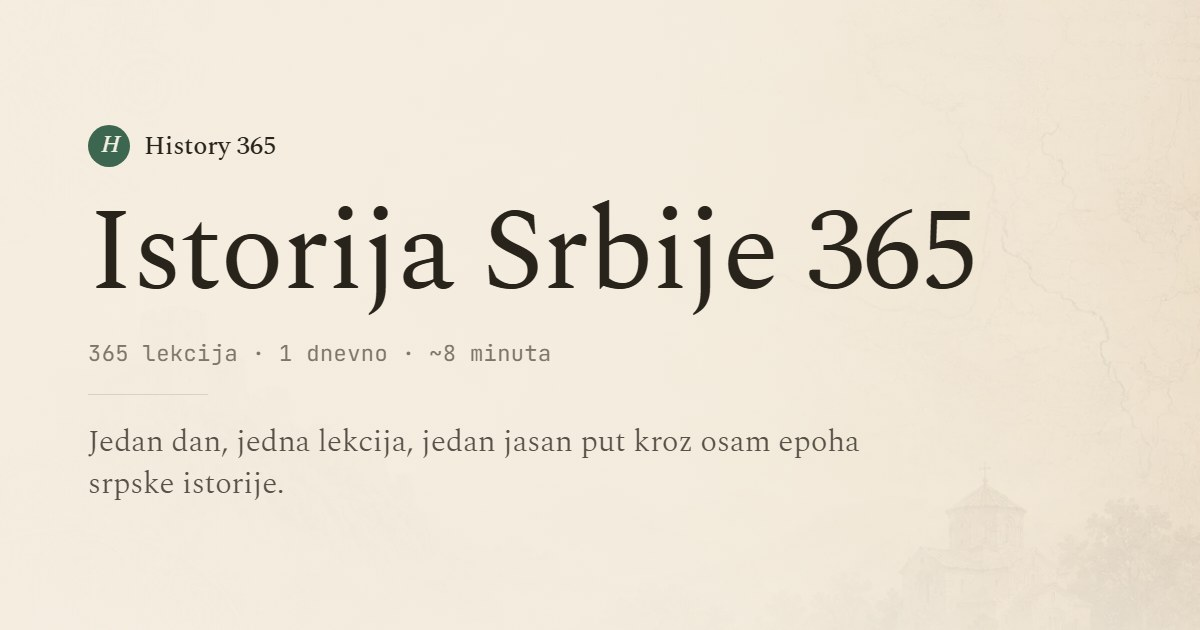
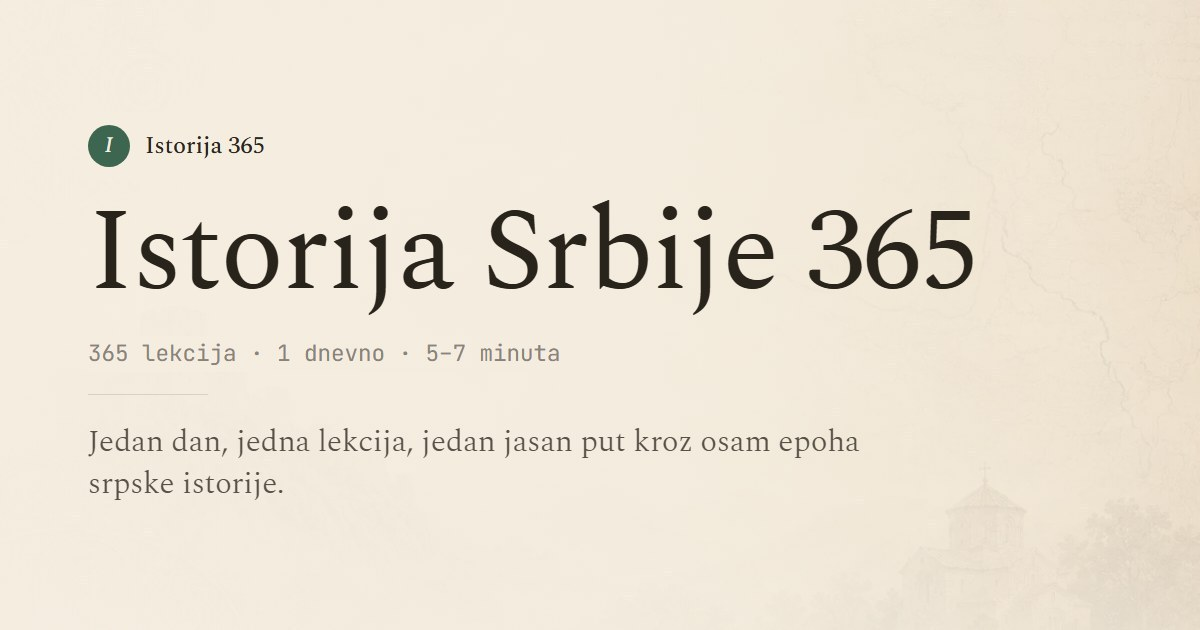
Istorija 365: brand rename, honest About voice, complete privacy page
- Brand "History 365" becomes "Istorija 365": masthead Brand (monogram I),
  footer, SITE_NAME / SITE_TITLE / tab template, OG card, favicon glyph.
- About speaks impersonally (one person + AI, no "we"); new lede that does
  not repeat the Home hero line.
- Privacy (review item 16): legal basis, US processors and transfers,
  everything the schema keeps (timestamps), backups at most 14 days,
  the right to complain to the Poverenik; /prijava line matches.
- e2e: brand surface test, privacy completeness test, About voice guards.

Changed region(s): [[0.1233, 0.5429, 0.4625, 0.573], [0.0617, 0.2111, 0.2467, 0.2714], [0.0617, 0.5429, 0.0925, 0.573]]

diff --git a/apps/web/app/privatnost/_copy.ts b/apps/web/app/privatnost/_copy.ts
@@ -1,16 +1,27 @@
 /**
  * Privacy page copy. Plain Serbian, no legal register: what is kept, why,
- * where, for how long, and how to delete it. Linked from the footer, the
- * sign-in page and the Google consent screen. Keep it true — every claim
- * here matches the schema in `lib/server/db/schema.ts`, the cookies set
- * by `lib/server/auth/*` and the one foreign script the CSP in
- * `next.config.mjs` allows (Cloudflare Web Analytics).
+ * on what legal basis, where, for how long, and how to delete it. Linked
+ * from the footer, the sign-in page and the Google consent screen. Keep it
+ * true — every claim here matches:
+ *
+ * - the schema in `lib/server/db/schema.ts` (users: Google `sub`, email,
+ *   name, picture URL, `created_at`, `last_seen_at`; sessions: token hash,
+ *   created / expires; progress with `completed_at` per lesson and the last
+ *   opened lesson; bookmarks with `created_at`),
+ * - the scopes in `lib/server/auth/google.ts` (`openid email profile`),
+ * - the cookies set by `lib/server/auth/*`,
+ * - the one foreign script the CSP in `next.config.mjs` allows (Cloudflare
+ *   Web Analytics),
+ * - the backup retention in `deploy/backup.sh` (at most 14 days).
+ *
+ * The voice is impersonal on purpose: one person runs the site (see
+ * /o-aplikaciji), so there is no "we".
  */
 export const PRIVACY_EYEBROW = 'Privatnost';
-export const PRIVACY_TITLE = 'Šta čuvamo, i zašto';
+export const PRIVACY_TITLE = 'Šta se čuva, i zašto';
 export const PRIVACY_LEDE =
-  'History 365 radi i bez naloga. Nalog postoji samo da bi se napredak preneo na druge uređaje. Ovde je, bez sitnih slova, sve što se tada čuva.';
-export const PRIVACY_UPDATED = 'Poslednja izmena: 29. septembar 2026.';
+  'Istorija 365 radi i bez naloga. Nalog postoji samo da bi se napredak preneo na druge uređaje. Ovde je, bez sitnih slova, sve što se tada čuva.';
+export const PRIVACY_UPDATED = 'Poslednja izmena: 30. septembar 2026.';
 
 export interface PrivacySection {
   readonly id: string;
@@ -23,7 +34,7 @@ export const PRIVACY_SECTIONS: readonly PrivacySection[] = [
     id: 'ko-vodi',
     heading: 'Ko vodi sajt',
     paragraphs: [
-      'History 365 vodi privatno lice, ne firma. To lice je rukovalac podataka opisanih na ovoj strani i odgovara na svako pitanje o njima preko adrese na dnu strane.',
+      'Sajt Istorija 365 vodi privatno lice, ne firma. To lice je rukovalac podataka opisanih na ovoj strani i odgovara na svako pitanje o njima preko adrese na dnu strane.',
     ],
   },
   {
@@ -37,41 +48,61 @@ export const PRIVACY_SECTIONS: readonly PrivacySection[] = [
     id: 'statistika',
     heading: 'Statistika poseta',
     paragraphs: [
-      'Brojimo posete da bismo znali koliko se sajt čita i koliko se brzo učitava. Za to koristimo Cloudflare Web Analytics, koji radi bez kolačića i ne prati te po drugim sajtovima.',
-      'Beleži se koja je strana otvorena i sa koje se došlo, vrsta pregledača i sistema, država i vreme učitavanja. Ti podaci se ne povezuju sa tvojim nalogom ni sa napretkom, i ne koristimo ih za reklame.',
+      'Posete se broje da bi se znalo koliko se sajt čita i koliko se brzo učitava. Za to služi Cloudflare Web Analytics, koji radi bez kolačića i ne prati te po drugim sajtovima.',
+      'Beleži se koja je strana otvorena i sa koje se došlo, vrsta pregledača i sistema, država i vreme učitavanja. Ti podaci se ne povezuju sa tvojim nalogom ni sa napretkom i ne koriste se za reklame.',
     ],
   },
   {
     id: 'sa-nalogom',
     heading: 'Sa Google nalogom',
     paragraphs: [
-      'Kad se prijaviš, od Google-a dobijamo i čuvamo četiri stvari: stalni identifikator tvog naloga, e-adresu, ime i sliku profila. Ništa više: ne čitamo poštu, kontakte ni kalendar, i ne čuvamo pristupne ključeve ka Google-u.',
-      'Uz to čuvamo tvoj napredak: koje su lekcije pročitane, koja je poslednja otvorena i koje su sačuvane, sa vremenom poslednje promene.',
+      'Pri prijavi se od Google-a traže samo osnovni podaci profila, a čuvaju se ovi: stalni identifikator tvog Google naloga, e-adresa, ime i adresa slike profila. Ništa više: pošta, kontakti i kalendar ostaju nedostupni, a pristupni ključevi ka Google-u se ne čuvaju.',
+      'Uz nalog se beleže vreme kada je napravljen i vreme poslednje prijave. Za svaku prijavu čuva se i zapis o sesiji: otisak kolačića (ne sam kolačić), sa vremenom nastanka i isteka.',
+      'Uz to se čuva napredak: koje su lekcije pročitane i kada je svaka označena, koja je lekcija poslednja otvorena i koje su lekcije sačuvane i kada.',
       'Spisak naloga vidi samo osoba koja vodi sajt.',
+    ],
+  },
+  {
+    id: 'pravni-osnov',
+    heading: 'Na osnovu čega',
+    paragraphs: [
+      'Nalog je dobrovoljan. Podaci naloga i napretka obrađuju se na osnovu tvog pristanka, koji daješ prijavom i povlačiš brisanjem naloga.',
+      'Statistika poseta i isporuka sajta oslanjaju se na legitimni interes: da se zna koliko se sajt čita i da radi pouzdano i bezbedno. Cloudflare, preko čije mreže ide sav saobraćaj, pri tome obrađuje i IP adresu, da bi isporučio stranu i zaštitio sajt od napada. U bazi sajta IP adrese se ne čuvaju.',
     ],
   },
   {
     id: 'kolacici',
     heading: 'Kolačići',
     paragraphs: [
-      'Jedan kolačić, __Host-l365_session, drži te prijavljenim trideset dana i produžava se dok koristiš aplikaciju. Tokom same prijave postoji i privremeni kolačić od deset minuta koji štiti od lažiranja zahteva. Nema kolačića trećih strana.',
+      'Jedan kolačić, __Host-l365_session, čuva prijavu trideset dana i produžava se dok koristiš aplikaciju. Tokom same prijave postoji i privremeni kolačić od deset minuta koji štiti od lažiranja zahteva. Nema kolačića trećih strana.',
     ],
   },
   {
     id: 'gde',
     heading: 'Gde i koliko dugo',
     paragraphs: [
-      'Podaci su na serveru u Helsinkiju, u Evropskoj uniji (Hetzner). Saobraćaj do servera ide preko Cloudflare-a, a prijava preko Google-a. Čuvaju se dok postoji nalog. Statistiku poseta obrađuje i čuva Cloudflare. Rezervne kopije prave se noću i čuvaju četrnaest dana.',
+      'Podaci naloga su na serveru u Helsinkiju, u Evropskoj uniji (Hetzner), i čuvaju se dok postoji nalog. Saobraćaj do servera ide preko Cloudflare-a, a prijava preko Google-a. Statistiku poseta obrađuje i čuva Cloudflare.',
+      'Google i Cloudflare su američke kompanije, pa se podaci koji prolaze kroz njihove sisteme mogu obrađivati i van Srbije i Evropske unije, uz standardne ugovorne klauzule kojima se te kompanije obavezuju na zaštitu podataka.',
+      'Rezervne kopije baze prave se svake noći i čuvaju najviše 14 dana.',
     ],
   },
   {
     id: 'brisanje',
     heading: 'Brisanje',
     paragraphs: [
-      'Na strani Nalog postoji dugme Obriši nalog. Briše nalog, napredak i sačuvane lekcije odmah i trajno; iz rezervnih kopija nestaju najkasnije za četrnaest dana. Odjava briše napredak samo iz tog pregledača; nalog ostaje. Isto se dešava kad prijava istekne: pročitane i sačuvane lekcije nestaju iz tog pregledača, a ostaju na nalogu i vraćaju se pri sledećoj prijavi.',
+      'Na strani Nalog postoji dugme Obriši nalog. Briše nalog, napredak i sačuvane lekcije odmah i trajno; iz rezervnih kopija nestaju najkasnije za 14 dana. Odjava briše napredak samo iz tog pregledača; nalog ostaje. Isto se dešava kad prijava istekne: pročitane i sačuvane lekcije nestaju iz tog pregledača, a ostaju na nalogu i vraćaju se pri sledećoj prijavi.',
+    ],
+  },
+  {
+    id: 'prava',
+    heading: 'Tvoja prava',
+    paragraphs: [
+      'Možeš da tražiš uvid u podatke koji se o tebi čuvaju, njihovu ispravku ili brisanje, i da pristanak povučeš u svakom trenutku — brisanjem naloga ili porukom na adresu ispod.',
+      'Ako smatraš da se tvoji podaci ne obrađuju u skladu sa zakonom, možeš da podneseš pritužbu Povereniku za informacije od javnog značaja i zaštitu podataka o ličnosti (poverenik.rs).',
     ],
   },
 ];
 
 export const PRIVACY_CONTACT_HEADING = 'Kontakt';
-export const PRIVACY_CONTACT_BODY = 'Za pitanja o podacima, ili ako želiš da nešto proverimo ili obrišemo umesto tebe:';
+export const PRIVACY_CONTACT_BODY =
+  'Za pitanja o podacima, ili ako želiš da se nešto proveri ili obriše umesto tebe:';

diff --git a/apps/web/app/o-aplikaciji/_copy.ts b/apps/web/app/o-aplikaciji/_copy.ts
@@ -2,6 +2,11 @@
  * Editorial copy for the /o-aplikaciji page. Kept here as plain string
  * constants so the owner can iterate copy without touching JSX.
  *
+ * Voice: one person runs the site and the lesson texts were prepared with
+ * an AI model, so the page never speaks as "we". It speaks impersonally
+ * about the project ("Istorija 365 …", passive where natural) and says "ti"
+ * to the reader. The lede must not repeat the Home hero line.
+ *
  * CONTACT_EMAIL is a Cloudflare Email Routing alias on the production
  * domain that forwards to the owner's inbox (DEPLOY.md §11). It is also the
  * data-rights contact on /privatnost.
@@ -14,23 +19,23 @@ export const CONTACT_EMAIL = 'kontakt@istorija365.com';
 export const PAGE_EYEBROW = 'O aplikaciji';
 export const PAGE_TITLE = 'Tihi vodič kroz istoriju Srbije';
 export const PAGE_LEDE =
-  'History 365 je dnevni kurs koji srpsku istoriju predstavlja kao kontinuiranu priču — jedan dan, jedna lekcija, jedan jasan put kroz osam epoha.';
+  'Istorija 365 je dnevni kurs koji istoriju Srbije prikazuje kao jednu povezanu priču: po jedna kratka lekcija za svaki dan, hronološkim redom kroz osam epoha, od praistorije do danas.';
 
 export const MISSION_HEADING = 'Misija';
 export const MISSION_BODY =
-  `Cilj nam je da istoriju Srbije izvedemo iz udžbenika i hronologija i predstavimo je kao povezanu, čitljivu priču dostupnu svakome ko želi da je razume. Verujemo da je dovoljno ${READING_TIME_LABEL} dnevno tokom godinu dana da se izgradi solidna, hronološki uredna slika — od najstarijih kultura na Balkanu do savremenog doba. Kurs je namerno spor: ne nudi enciklopedijsku iscrpnost, već stabilan ritam koji se može održati.`;
+  `Namera kursa je da istoriju Srbije izvede iz udžbenika i hronologija i ponudi je kao povezanu, čitljivu priču, dostupnu svakome ko želi da je razume. Polazna pretpostavka je jednostavna: ${READING_TIME_LABEL} dnevno tokom jedne godine dovoljno je za solidnu, hronološki urednu sliku — od najstarijih kultura na Balkanu do savremenog doba. Kurs je namerno spor: ne nudi enciklopedijsku iscrpnost, već stabilan ritam koji se može održati.`;
 
 export const STANDARD_HEADING = 'Urednički standard';
 export const STANDARD_BODY =
-  'Svaka lekcija je kratka, ali ne i površna. Pišemo za obrazovanog čitaoca koji nije istoričar — jezik je precizan, ton miran, a datume i imena proveravamo i ispravljamo lekciju po lekciju. Izbegavamo nacionalnu mitologizaciju i lake sudove o ličnostima i događajima; tamo gde istoriografija nije saglasna, to jasno naznačavamo. Cilj je da, kada lekciju završiš, znaš šta se desilo, zašto je važno, i šta o tome (ne) možemo pouzdano da tvrdimo.';
+  'Svaka lekcija je kratka, ali ne i površna. Pisana je za obrazovanu publiku koja se istorijom ne bavi profesionalno: jezik je precizan, ton miran, a datumi i imena proveravaju se i ispravljaju lekciju po lekciju. Tekstovi izbegavaju nacionalnu mitologizaciju i lake sudove o ličnostima i događajima; tamo gde istoriografija nije saglasna, to je jasno naznačeno. Cilj je da, kada završiš lekciju, znaš šta se desilo, zašto je važno i šta se o tome (ne) može pouzdano tvrditi.';
 
 export const SOURCES_HEADING = 'O izvorima';
 export const SOURCES_BODY =
-  'Lekcije se oslanjaju na uglednu domaću i međunarodnu istoriografiju — akademske preglede, monografije pojedinih perioda, i, kada je relevantno, primarne izvore u prevodu. Lekcije koje na kraju imaju blok „Izvori” navode dela na koja se tekst neposredno oslanja. Za ostale lekcije spisak literature po epohama je u pripremi. Ako primetiš grešku, javi je na adresu ispod — ispravke ulaze odmah, lekciju po lekciju.';
+  'Lekcije se oslanjaju na uglednu domaću i međunarodnu istoriografiju — akademske preglede, monografije pojedinih perioda i, kada je relevantno, primarne izvore u prevodu. Lekcije koje na kraju imaju blok „Izvori” navode dela na koja se tekst neposredno oslanja. Za ostale lekcije spisak literature po epohama je u pripremi. Ako primetiš grešku, javi je na adresu ispod — svaka prijava se proverava, a ispravka ulazi u lekciju čim se potvrdi.';
 
 export const EDITOR_HEADING = 'Ko stoji iza kursa';
 export const EDITOR_BODY =
-  'History 365 vodi jedna osoba, ne redakcija. Tekstove lekcija pripremio je AI model na osnovu domaće i međunarodne istoriografije, a autor sajta ih uređuje, proverava i ispravlja — lekciju po lekciju, sporim tempom koji i sam kurs preporučuje. Svih 365 lekcija je dostupno od prvog dana; to znači da su neke prošle više provera od drugih, i zato svaka greška koju prijaviš zaista pomaže.';
+  'Istorija 365 je projekat jedne osobe, ne redakcije. Tekstove lekcija pripremio je AI model na osnovu domaće i međunarodne istoriografije, a autor sajta ih uređuje, proverava i ispravlja — lekciju po lekciju, sporim tempom koji preporučuje i sam kurs. Svih 365 lekcija dostupno je od prvog dana, pa su neke prošle više provera od drugih; zato svaka greška koju prijaviš zaista pomaže.';
 
 export const CONTACT_HEADING = 'Kontakt';
 export const CONTACT_BODY =

diff --git a/apps/web/e2e/first-impression.spec.ts b/apps/web/e2e/first-impression.spec.ts
@@ -16,7 +16,7 @@ const STARTED_SEED = JSON.stringify({
   version: 1,
 });
 
-test.describe('History 365 — first impression', () => {
+test.describe('Istorija 365 — first impression', () => {
   test('home explains the ritual to a first-time visitor, then retires the block', async ({
     page,
   }) => {
@@ -47,7 +47,7 @@ test.describe('History 365 — first impression', () => {
     );
     await expect(page.locator('meta[property="og:title"]')).toHaveAttribute(
       'content',
-      /Istorija Srbije 365/,
+      /^Istorija 365 — Istorija Srbije/,
     );
     await expect(page.locator('meta[name="twitter:card"]')).toHaveAttribute(
       'content',
@@ -75,10 +75,33 @@ test.describe('History 365 — first impression', () => {
     await expect(page.getByText(/u fazi izgradnje kursa/)).toHaveCount(0);
     await expect(page.getByText(/Premium/)).toHaveCount(0);
     // No invented editorial team, and a contact address on the production domain.
-    await expect(page.getByText(/Tim History 365/)).toHaveCount(0);
+    await expect(page.getByText(/Tim (History|Istorija) 365/)).toHaveCount(0);
     await expect(page.getByRole('link', { name: 'kontakt@istorija365.com' })).toHaveAttribute(
       'href',
       'mailto:kontakt@istorija365.com',
     );
+    // One person runs the site: the page does not speak as "we", and its
+    // lede is its own, not the Home hero line.
+    const main = page.getByRole('main');
+    await expect(main.getByText(/Pišemo|proveravamo|Cilj nam je|Izbegavamo|naznačavamo/)).toHaveCount(0);
+    await expect(main.getByText(/jedan jasan put/)).toHaveCount(0);
+    await expect(main.getByText(/projekat jedne osobe/)).toBeVisible();
+    await expect(main.getByText(/AI model/)).toBeVisible();
+  });
+
+  test('the brand is Istorija 365 on every surface', async ({ page }) => {
+    await page.goto('/');
+    await expect(page).toHaveTitle(/^Istorija 365 — /);
+    await expect(page.getByRole('banner').getByRole('link', { name: /Istorija 365/ })).toBeVisible();
+    await expect(page.getByRole('contentinfo').getByText('© 2026 Istorija 365')).toBeVisible();
+    await expect(page.locator('meta[property="og:site_name"]')).toHaveAttribute(
+      'content',
+      'Istorija 365',
+    );
+    await expect(page.getByText(/History 365/)).toHaveCount(0);
+
+    await page.goto(`/course/${COURSE_ID}/lesson/day-001`);
+    await expect(page).toHaveTitle(/^Dan 1: .+ · Istorija 365$/);
+    await expect(page.getByText(/History 365/)).toHaveCount(0);
   });
 });

diff --git a/apps/web/e2e/privacy.spec.ts b/apps/web/e2e/privacy.spec.ts
@@ -7,7 +7,7 @@ import { expect, test } from '@playwright/test';
  */
 const STATISTICS_ORIGIN = 'https://static.cloudflareinsights.com';
 
-test.describe('History 365 — privacy and what the page may load', () => {
+test.describe('Istorija 365 — privacy and what the page may load', () => {
   test('the policy allows the visit-statistics script and no other foreign script', async ({
     request,
   }) => {
@@ -37,5 +37,26 @@ test.describe('History 365 — privacy and what the page may load', () => {
     // The sentence that was true before statistics were allowed is gone.
     await expect(page.getByText(/Nemamo analitiku/)).toHaveCount(0);
     await expect(page.getByText(/ništa ne napušta tvoj pregledač/)).toHaveCount(0);
+  });
+
+  test('/privatnost names the legal basis, the transfers, the retention and the regulator', async ({
+    page,
+  }) => {
+    await page.goto('/privatnost');
+    const basis = page.locator('section[aria-labelledby="pravni-osnov"]');
+    await expect(basis).toContainText('pristanka');
+    await expect(basis).toContainText('legitimni interes');
+    const where = page.locator('section[aria-labelledby="gde"]');
+    await expect(where).toContainText('van Srbije');
+    await expect(where).toContainText('standardne ugovorne klauzule');
+    await expect(where).toContainText('najviše 14 dana');
+    // Everything the schema keeps, not a round "četiri stvari".
+    const account = page.locator('section[aria-labelledby="sa-nalogom"]');
+    await expect(account).toContainText('poslednje prijave');
+    await expect(account).toContainText('kada je svaka označena');
+    await expect(page.getByText(/četiri stvari/)).toHaveCount(0);
+    const rights = page.locator('section[aria-labelledby="prava"]');
+    await expect(rights).toContainText('Povereniku za informacije od javnog značaja');
+    await expect(rights).toContainText('poverenik.rs');
   });
 });

diff --git a/apps/web/app/(account)/prijava/page.tsx b/apps/web/app/(account)/prijava/page.tsx
@@ -8,6 +8,7 @@ import { getCurrentSession } from '@/lib/server/auth/currentUser';
 import { sanitizeReturnTo } from '@/lib/server/auth/returnTo';
 import { getAuthConfig } from '@/lib/server/env';
 
+import { CONTACT_EMAIL } from '../../o-aplikaciji/_copy';
 import styles from '../account.module.css';
 
 export const dynamic = 'force-dynamic';
@@ -29,12 +30,13 @@ function first(value: string | string[] | undefined): string | undefined {
 
 const ERROR_LINES: Readonly<Record<string, string>> = {
   odbijeno: 'Prijava je otkazana na Google-u. Možeš da pokušaš ponovo kad god želiš.',
-  neuspesno: 'Prijava nije uspela. Pokušaj ponovo; ako se ponovi, javi nam se.',
+  neuspesno: `Prijava nije uspela. Pokušaj ponovo; ako se ponovi, piši na ${CONTACT_EMAIL}.`,
 };
 
 /**
  * The sign-in page. One button, one sentence about what the account is
- * for, one line about what we keep. `?nazad=` carries the path to return
+ * for, one line about what is kept (matches `/privatnost` and the
+ * `openid email profile` scopes). `?nazad=` carries the path to return
  * to; `?greska=` renders the calm error line the callback redirects with.
  * With accounts off the page says so instead of a button.
  */
@@ -85,8 +87,8 @@ export default async function PrijavaPage({ searchParams }: PageProps) {
                 </Button>
               </div>
               <p className={`tiny ${styles.privacy}`}>
-                Od Google-a dobijamo ime, e-adresu i sliku, ništa više.{' '}
-                <Link href="/privatnost">Šta tačno čuvamo</Link>
+                Od Google-a se preuzimaju samo e-adresa, ime i slika profila.{' '}
+                <Link href="/privatnost">Šta se tačno čuva</Link>
               </p>
             </>
           )}

diff --git a/apps/web/e2e/auth-off.spec.ts b/apps/web/e2e/auth-off.spec.ts
@@ -5,7 +5,7 @@ import { expect, test } from '@playwright/test';
  * with no DATABASE_URL / APP_URL / Google client. Every surface Phase 8
  * added must be absent or degrade calmly, and reading must be untouched.
  */
-test.describe('History 365 — accounts off', () => {
+test.describe('Istorija 365 — accounts off', () => {
   test('masthead shows no account entry and /api/me reports disabled', async ({ page }) => {
     const me = page.waitForResponse((response) => response.url().includes('/api/me'));
     await page.goto('/');
@@ -101,7 +101,7 @@ test.describe('History 365 — accounts off', () => {
     await page.goto('/');
     await page.getByRole('contentinfo').getByRole('link', { name: 'Privatnost' }).click();
     await expect(page).toHaveURL(/\/privatnost$/);
-    await expect(page.getByRole('heading', { level: 1, name: 'Šta čuvamo, i zašto' })).toBeVisible();
+    await expect(page.getByRole('heading', { level: 1, name: 'Šta se čuva, i zašto' })).toBeVisible();
     await expect(page.getByRole('heading', { level: 2, name: 'Brisanje' })).toBeVisible();
   });
 });

diff --git a/apps/web/lib/seo/metadata.ts b/apps/web/lib/seo/metadata.ts
@@ -12,8 +12,8 @@ import type { Metadata } from 'next';
  *  canonical home of every page instead of itself. */
 export const PRODUCTION_ORIGIN = 'https://istorija365.com';
 export const SITE_URL = (process.env.NEXT_PUBLIC_SITE_URL || PRODUCTION_ORIGIN).replace(/\/$/, '');
-export const SITE_NAME = 'History 365';
-export const SITE_TITLE = 'History 365 — Istorija Srbije 365';
+export const SITE_NAME = 'Istorija 365';
+export const SITE_TITLE = 'Istorija 365 — Istorija Srbije kroz 365 lekcija';
 export const SITE_DESCRIPTION =
   'Dnevni vodič kroz istoriju Srbije: jedna kratka lekcija svakog dana, kroz osam istorijskih epoha, tokom cele godine.';
 
@@ -22,7 +22,7 @@ export const DEFAULT_OG_IMAGE = {
   url: '/og/istorija-srbije-365.jpg',
   width: 1200,
   height: 630,
-  alt: 'History 365 — Istorija Srbije 365',
+  alt: 'Istorija 365 — Istorija Srbije 365',
 } as const;
 
 interface ShareMetadataArgs {

diff --git a/packages/ui-web/src/primitives/Footer/Footer.tsx b/packages/ui-web/src/primitives/Footer/Footer.tsx
@@ -17,7 +17,7 @@ export function Footer({ aboutHref, sourcesHref, privacyHref }: FooterProps) {
   return (
     <footer className={styles.footer} role="contentinfo">
       <div className={`shell ${styles.inner}`}>
-        <Link href="/" className={styles.brandLink} aria-label="History 365 — početna">
+        <Link href="/" className={styles.brandLink} aria-label="Istorija 365 — početna">
           <Brand />
         </Link>
 
@@ -39,7 +39,7 @@ export function Footer({ aboutHref, sourcesHref, privacyHref }: FooterProps) {
           ) : null}
         </nav>
 
-        <p className={`tiny ${styles.copy}`}>© 2026 History 365</p>
+        <p className={`tiny ${styles.copy}`}>© 2026 Istorija 365</p>
       </div>
     </footer>
   );

diff --git a/apps/web/app/o-aplikaciji/page.tsx b/apps/web/app/o-aplikaciji/page.tsx
@@ -24,13 +24,13 @@ import {
 import styles from './page.module.css';
 
 const ABOUT_DESCRIPTION =
-  'Kako History 365 funkcioniše, ko ga uređuje i na koje se izvore oslanja — dnevni vodič kroz istoriju Srbije.';
+  'Kako Istorija 365 funkcioniše, ko je uređuje i na koje se izvore oslanja — dnevni vodič kroz istoriju Srbije.';
 
 export const metadata: Metadata = {
   title: 'O aplikaciji',
   description: ABOUT_DESCRIPTION,
   ...shareMetadata({
-    title: 'O aplikaciji · History 365',
+    title: 'O aplikaciji · Istorija 365',
     description: ABOUT_DESCRIPTION,
     path: '/o-aplikaciji',
   }),

diff --git a/apps/web/app/privatnost/page.tsx b/apps/web/app/privatnost/page.tsx
@@ -18,13 +18,13 @@ import {
 import styles from './page.module.css';
 
 const PRIVACY_DESCRIPTION =
-  'Šta History 365 čuva sa Google nalogom i bez njega, gde, koliko dugo i kako se briše.';
+  'Šta Istorija 365 čuva sa Google nalogom i bez njega, gde, koliko dugo i kako se briše.';
 
 export const metadata: Metadata = {
   title: 'Privatnost',
   description: PRIVACY_DESCRIPTION,
   ...shareMetadata({
-    title: 'Privatnost · History 365',
+    title: 'Privatnost · Istorija 365',
     description: PRIVACY_DESCRIPTION,
     path: '/privatnost',
   }),

diff --git a/apps/web/e2e/reader.spec.ts b/apps/web/e2e/reader.spec.ts
@@ -3,7 +3,7 @@ import { expect, test } from '@playwright/test';
 const COURSE_ID = 'istorija-srbije-365';
 const LESSON = `/course/${COURSE_ID}/lesson/day-001`;
 
-test.describe('History 365 — reader chrome', () => {
+test.describe('Istorija 365 — reader chrome', () => {
   test('the first sentence arrives early and chrome stays short', async ({ page }) => {
     await page.goto(LESSON);
     const contentsButton = page.getByRole('button', { name: /Otvori sadržaj/ });

diff --git a/apps/web/e2e/smoke.spec.ts b/apps/web/e2e/smoke.spec.ts
@@ -5,7 +5,7 @@ const DAY_1_LESSON_ID = 'day-001';
 // A second hand-authored (completable) lesson, distinct from day 1.
 const AUTHORED_LESSON_ID = 'day-007';
 
-test.describe('History 365 — smoke', () => {
+test.describe('Istorija 365 — smoke', () => {
   test('home renders hero + CTA', async ({ page }) => {
     await page.goto('/');
     await expect(page.getByRole('heading', { level: 1 })).toBeVisible();
